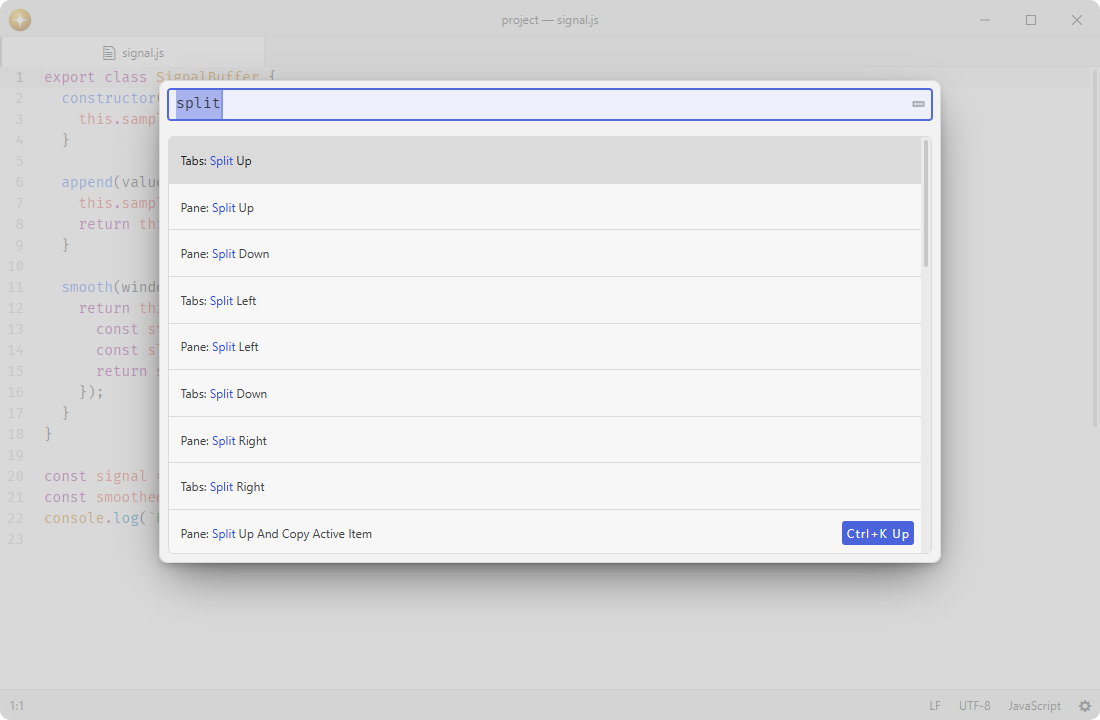
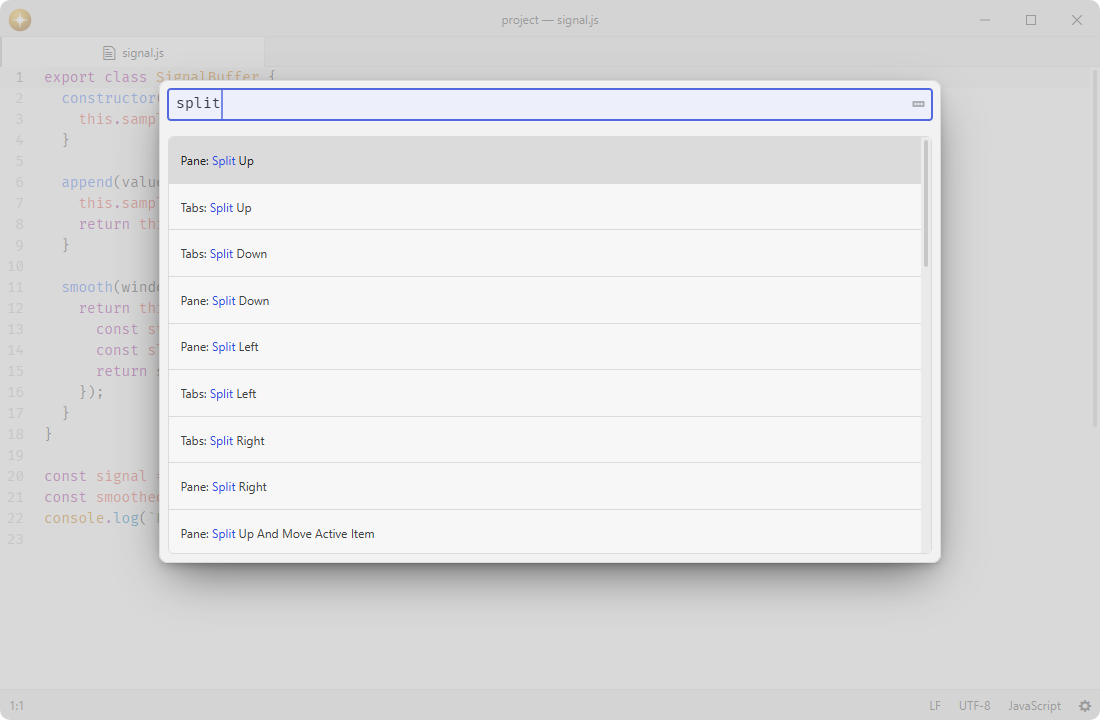
Document and demonstrate repeated command execution

diff --git a/README.md b/README.md
@@ -19,6 +19,8 @@ The palette lists every command available for the focused element, so it always 
 
 ![Search the editor command palette.](.github/demo.png)
 
+![Run repeated commands while the accented palette stays open.](.github/demo-keep-open.png)
+
 ## Installation
 
 To install `command-palette` search for it in the Install pane of the Lumine settings, or run the command `lumine --install lumine-code/command-palette`.
